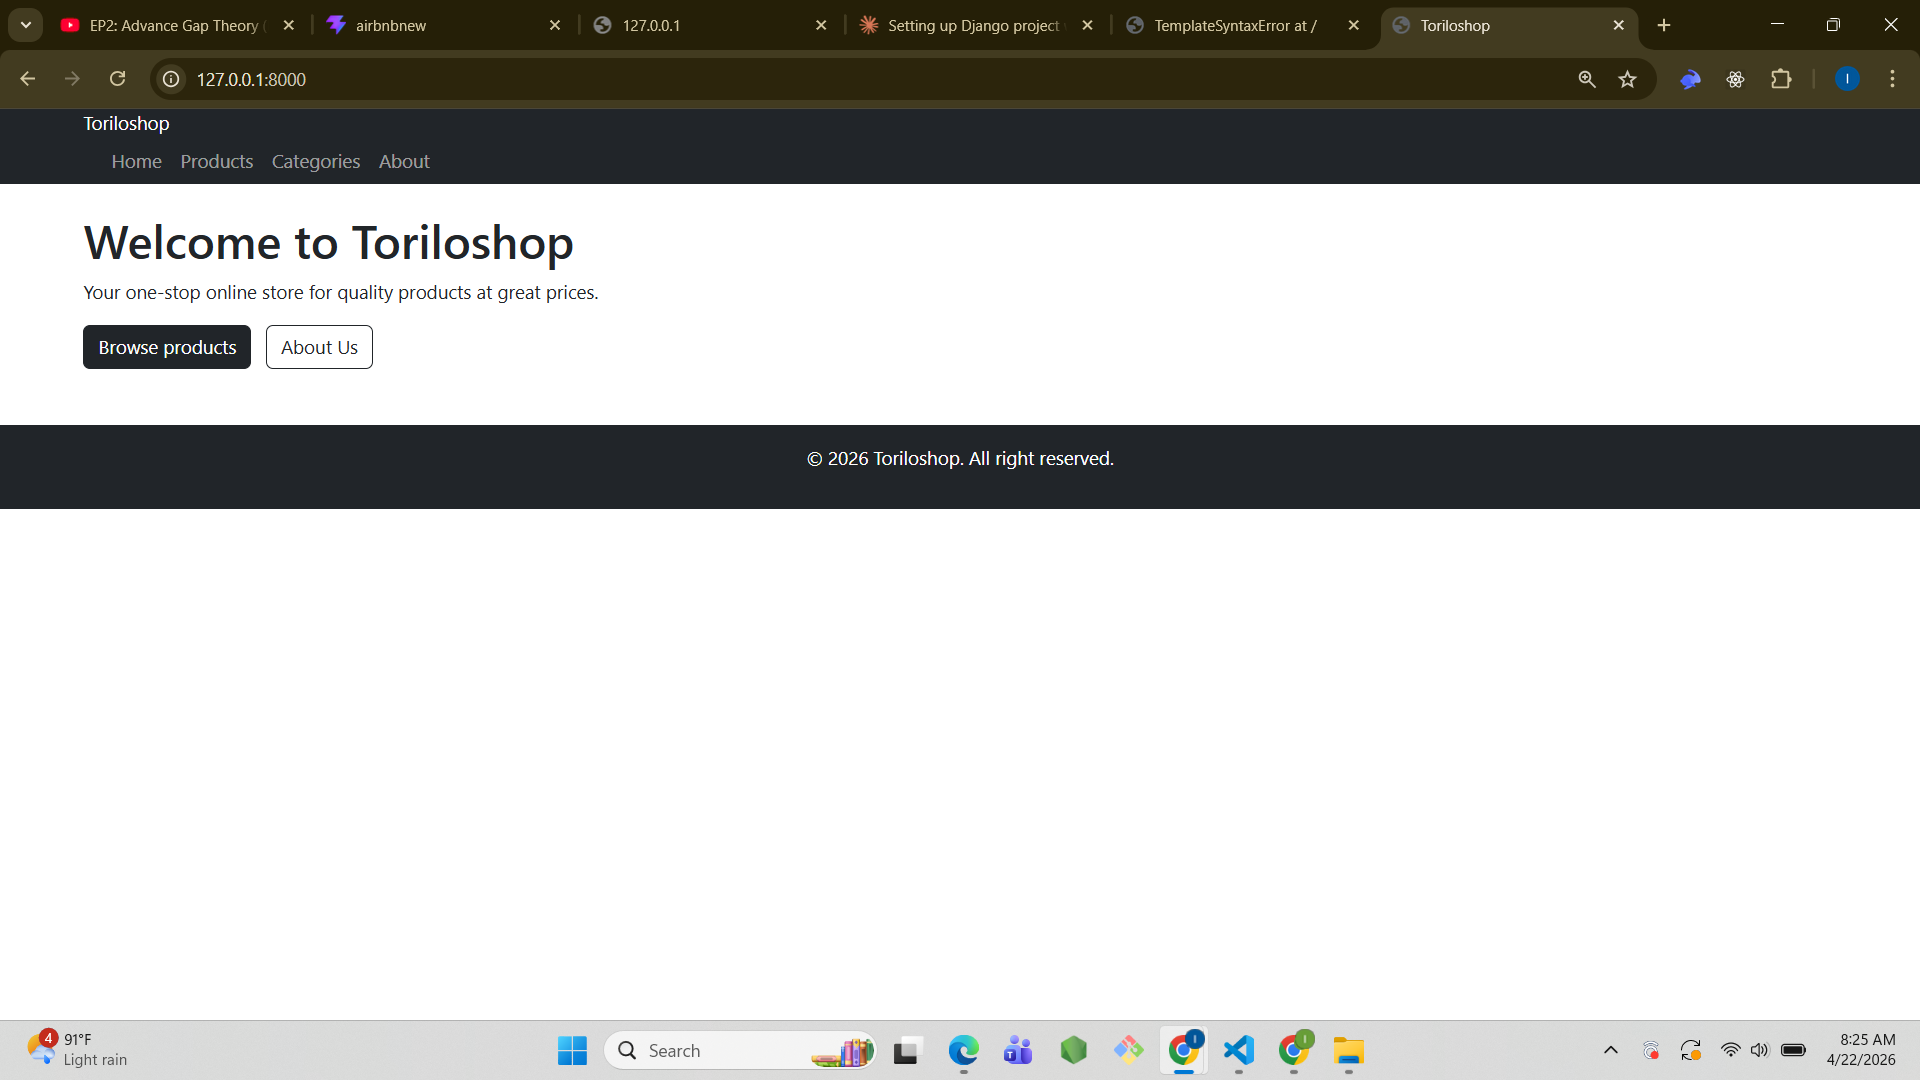
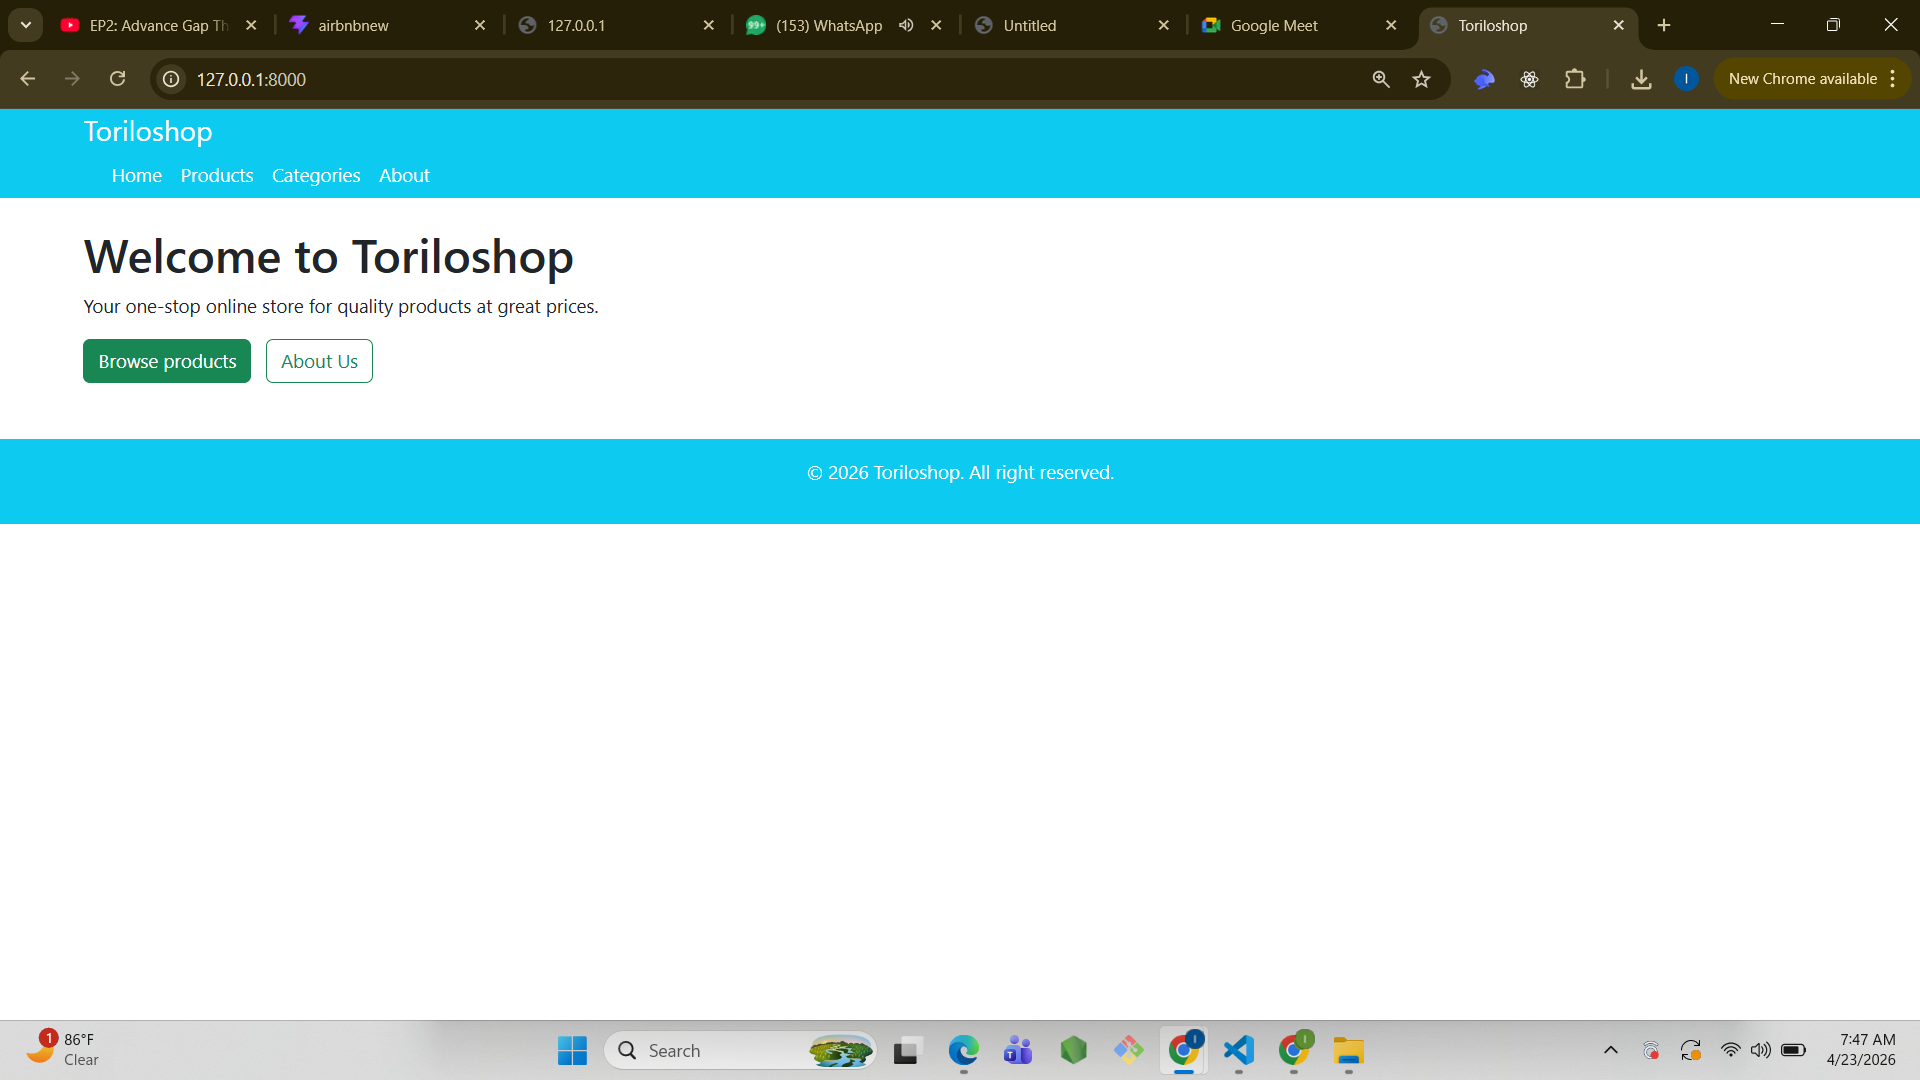
Module 9 - Added templates and product listing pages

diff --git a/module-9/products/templates/products/base.html b/module-9/products/templates/products/base.html
@@ -10,21 +10,21 @@
     />
   </head>
   <body>
-    <nav class="nav navbar-expand-lg navbar-dark bg-dark">
+    <nav class="nav navbar-expand-lg navbar-dark bg-info">
       <div class="container">
-        <a class="navbar-brand" href="/">Toriloshop</a>
+        <a class="navbar-brand text-white fs-4" href="/">Toriloshop</a>
         <div class="navbar-nav ms-3">
-          <a class="nav-link px-2" href="/">Home</a>
-          <a class="nav-link px-2" href="/products/">Products</a>
-          <a class="nav-link px-2" href="/categories">Categories</a>
-          <a class="nav-link px-2" href="/about">About</a>
+          <a class="nav-link px-2 text-white" href="/">Home</a>
+          <a class="nav-link px-2 text-white" href="/products/">Products</a>
+          <a class="nav-link px-2 text-white" href="/categories">Categories</a>
+          <a class="nav-link px-2 text-white" href="/about">About</a>
         </div>
       </div>
     </nav>
 
     <div class="container mt-4">{% block content %} {% endblock %}</div>
 
-    <footer class="bg-dark text-white text-center py-3 mt-5">
+    <footer class="bg-info text-white text-center py-3 mt-5">
       <p>© 2026 Toriloshop. All right reserved.</p>
     </footer>
   </body>

diff --git a/module-9/products/templates/products/home.html b/module-9/products/templates/products/home.html
@@ -1,6 +1,6 @@
 {%extends 'products/base.html' %} {% block content %}
 <h1>Welcome to Toriloshop</h1>
 <p>Your one-stop online store for quality products at great prices.</p>
-<a href="/products/" class="btn btn-dark">Browse products</a>
-<a href="/about/" class="btn btn-outline-dark ms-2">About Us</a>
+<a href="/products/" class="btn btn-success">Browse products</a>
+<a href="/about/" class="btn btn-outline-success ms-2">About Us</a>
 {% endblock %}

diff --git a/module-9/products/templates/products/product_list.html b/module-9/products/templates/products/product_list.html
@@ -14,7 +14,7 @@
         <span class="badge bg-danger">Out of Stock</span>
         {% endif %}
         <br />
-        <a href="/products/{{ product.id }}/" class="btn btn-dark btn-sm"
+        <a href="/products/{{ product.id }}/" class="btn btn-success btn-sm"
           >View Product</a
         >
       </div>

diff --git a/module-9/products/templates/products/product_detail.html b/module-9/products/templates/products/product_detail.html
@@ -13,5 +13,5 @@
   </div>
 </div>
 <br />
-<a href="/products/" class="btn btn-dark">Back to Products</a>
+<a href="/products/" class="btn btn-success">Back to Products</a>
 {% endblock %}
